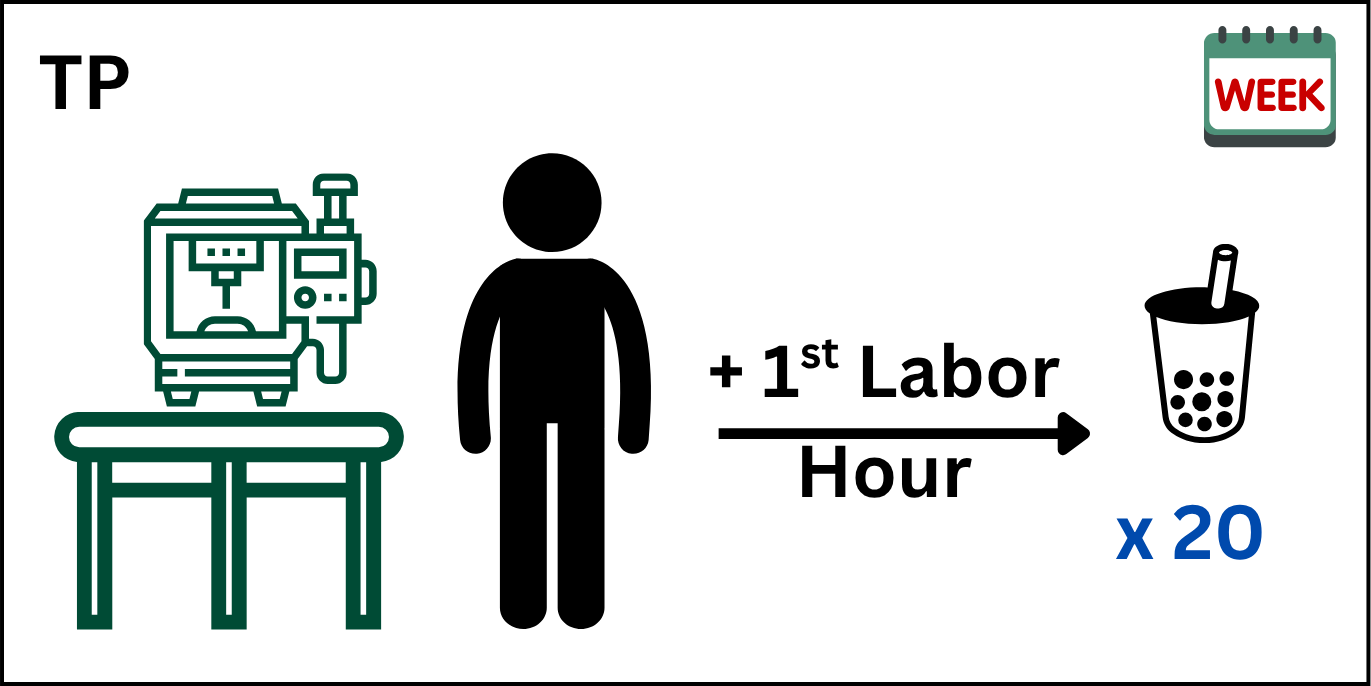
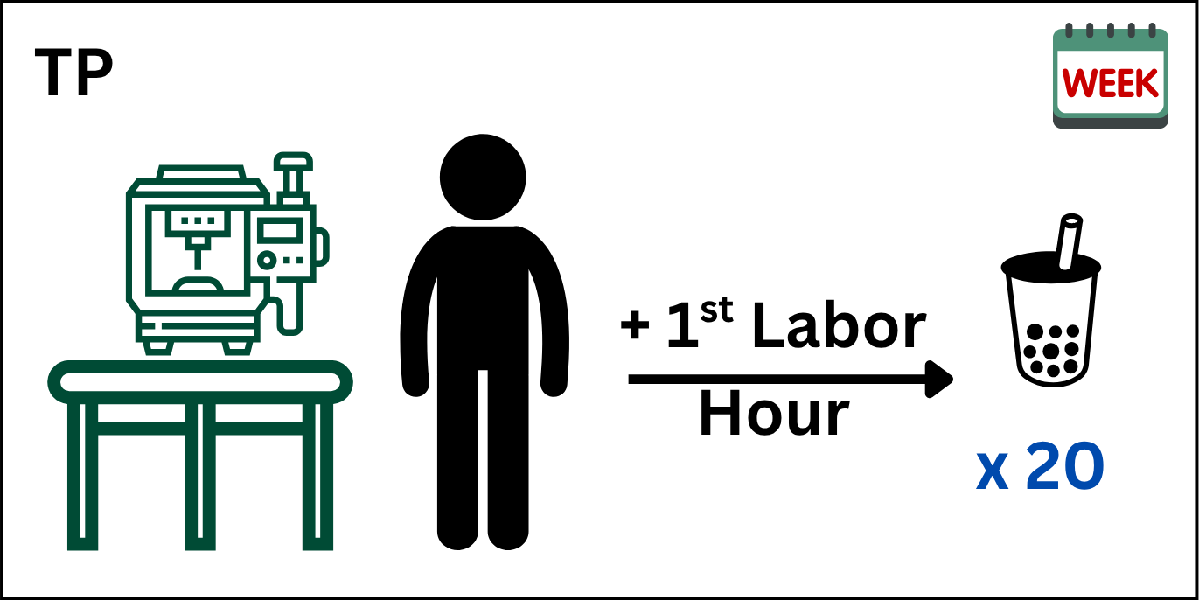
ch09: fix TP panel heights — direct height:150px now that source images are uniform 600px tall
User regenerated tp1/tp2/tp3 at uniform 600px height (different widths
1199/1414/1699 by aspect ratio). With a uniform source height, the
cleanest CSS is to set the img height DIRECTLY (height: 150px,
width: auto) rather than fitting inside a max-height container — that
way the height is forced equal across all three regardless of aspect.

Displayed dims (verified in browser):
  tp1: 300 × 150
  tp2: 354 × 150
  tp3: 380 × 150 (capped by ~415px column width; minor letterboxing)

All three line up at the same baseline, captions sit at identical Y.

diff --git a/econ1116/ch09-inside-the-firm/index.html b/econ1116/ch09-inside-the-firm/index.html
@@ -1385,25 +1385,21 @@
   </div>
  </div>
 
- <!-- 3-step TP reveal — each image in a fixed-height container so all 3 align -->
+ <!-- 3-step TP reveal — source images all 600px tall, so set img height (not container)
+      directly. Widths differ slightly by aspect ratio (~290/342/411 px), all fit
+      inside ~415px columns. Captions line up automatically. -->
  <div style="display: grid; grid-template-columns: 1fr 1fr 1fr; gap: 10px; margin-top: 12px;">
   <div class="fragment fade-up" data-fragment-index="1" style="text-align: center; min-width: 0;">
-   <div style="height: 180px; display: flex; align-items: center; justify-content: center; border-radius: 6px; box-shadow: 0 1px 4px rgba(0,0,0,0.08); overflow: hidden;">
-    <img alt="TP panel 1: boba machine + 1 worker + arrow + boba drink × 20. One labor hour produces 20 drinks." src="figures/tp1.png" style="max-width: 100%; max-height: 100%; object-fit: contain;">
-   </div>
-   <p style="font-size: 11pt; margin: 4px 0 0;"><strong>L = 1</strong> &rarr; 20 drinks/hr</p>
+   <img alt="TP panel 1: boba machine + 1 worker + arrow + boba drink × 20. One labor hour produces 20 drinks." src="figures/tp1.png" style="height: 150px; width: auto; max-width: 100%; display: block; margin: 0 auto; border-radius: 6px;">
+   <p style="font-size: 11pt; margin: 6px 0 0;"><strong>L = 1</strong> &rarr; 20 drinks/hr</p>
   </div>
   <div class="fragment fade-up" data-fragment-index="2" style="text-align: center; min-width: 0;">
-   <div style="height: 180px; display: flex; align-items: center; justify-content: center; border-radius: 6px; box-shadow: 0 1px 4px rgba(0,0,0,0.08); overflow: hidden;">
-    <img alt="TP panel 2: boba machine + 2 workers + arrow + boba drink × 50. Two workers produce 50 drinks (more than 2×20 because of specialization)." src="figures/tp2.png" style="max-width: 100%; max-height: 100%; object-fit: contain;">
-   </div>
-   <p style="font-size: 11pt; margin: 4px 0 0;"><strong>L = 2</strong> &rarr; <strong style="color: var(--success-color);">50 drinks/hr</strong> <span style="color: var(--muted-color); font-style: italic;">(2&times;20 = 40)</span></p>
+   <img alt="TP panel 2: boba machine + 2 workers + arrow + boba drink × 50. Two workers produce 50 drinks (more than 2×20 because of specialization)." src="figures/tp2.png" style="height: 150px; width: auto; max-width: 100%; display: block; margin: 0 auto; border-radius: 6px;">
+   <p style="font-size: 11pt; margin: 6px 0 0;"><strong>L = 2</strong> &rarr; <strong style="color: var(--success-color);">50 drinks/hr</strong> <span style="color: var(--muted-color); font-style: italic;">(2&times;20 = 40)</span></p>
   </div>
   <div class="fragment fade-up" data-fragment-index="3" style="text-align: center; min-width: 0;">
-   <div style="height: 180px; display: flex; align-items: center; justify-content: center; border-radius: 6px; box-shadow: 0 1px 4px rgba(0,0,0,0.08); overflow: hidden;">
-    <img alt="TP panel 3: boba machine + 3 workers + arrow + boba drink × 90. Three workers produce 90 drinks (way more than 3×20 because of further specialization)." src="figures/tp3.png" style="max-width: 100%; max-height: 100%; object-fit: contain;">
-   </div>
-   <p style="font-size: 11pt; margin: 4px 0 0;"><strong>L = 3</strong> &rarr; <strong style="color: var(--success-color);">90 drinks/hr</strong> <span style="color: var(--muted-color); font-style: italic;">(3&times;20 = 60)</span></p>
+   <img alt="TP panel 3: boba machine + 3 workers + arrow + boba drink × 90. Three workers produce 90 drinks (way more than 3×20 because of further specialization)." src="figures/tp3.png" style="height: 150px; width: auto; max-width: 100%; display: block; margin: 0 auto; border-radius: 6px;">
+   <p style="font-size: 11pt; margin: 6px 0 0;"><strong>L = 3</strong> &rarr; <strong style="color: var(--success-color);">90 drinks/hr</strong> <span style="color: var(--muted-color); font-style: italic;">(3&times;20 = 60)</span></p>
   </div>
  </div>
 

diff --git a/econ1116/ch09-inside-the-firm/presentation.html b/econ1116/ch09-inside-the-firm/presentation.html
@@ -1385,25 +1385,21 @@
   </div>
  </div>
 
- <!-- 3-step TP reveal — each image in a fixed-height container so all 3 align -->
+ <!-- 3-step TP reveal — source images all 600px tall, so set img height (not container)
+      directly. Widths differ slightly by aspect ratio (~290/342/411 px), all fit
+      inside ~415px columns. Captions line up automatically. -->
  <div style="display: grid; grid-template-columns: 1fr 1fr 1fr; gap: 10px; margin-top: 12px;">
   <div class="fragment fade-up" data-fragment-index="1" style="text-align: center; min-width: 0;">
-   <div style="height: 180px; display: flex; align-items: center; justify-content: center; border-radius: 6px; box-shadow: 0 1px 4px rgba(0,0,0,0.08); overflow: hidden;">
-    <img alt="TP panel 1: boba machine + 1 worker + arrow + boba drink × 20. One labor hour produces 20 drinks." src="figures/tp1.png" style="max-width: 100%; max-height: 100%; object-fit: contain;">
-   </div>
-   <p style="font-size: 11pt; margin: 4px 0 0;"><strong>L = 1</strong> &rarr; 20 drinks/hr</p>
+   <img alt="TP panel 1: boba machine + 1 worker + arrow + boba drink × 20. One labor hour produces 20 drinks." src="figures/tp1.png" style="height: 150px; width: auto; max-width: 100%; display: block; margin: 0 auto; border-radius: 6px;">
+   <p style="font-size: 11pt; margin: 6px 0 0;"><strong>L = 1</strong> &rarr; 20 drinks/hr</p>
   </div>
   <div class="fragment fade-up" data-fragment-index="2" style="text-align: center; min-width: 0;">
-   <div style="height: 180px; display: flex; align-items: center; justify-content: center; border-radius: 6px; box-shadow: 0 1px 4px rgba(0,0,0,0.08); overflow: hidden;">
-    <img alt="TP panel 2: boba machine + 2 workers + arrow + boba drink × 50. Two workers produce 50 drinks (more than 2×20 because of specialization)." src="figures/tp2.png" style="max-width: 100%; max-height: 100%; object-fit: contain;">
-   </div>
-   <p style="font-size: 11pt; margin: 4px 0 0;"><strong>L = 2</strong> &rarr; <strong style="color: var(--success-color);">50 drinks/hr</strong> <span style="color: var(--muted-color); font-style: italic;">(2&times;20 = 40)</span></p>
+   <img alt="TP panel 2: boba machine + 2 workers + arrow + boba drink × 50. Two workers produce 50 drinks (more than 2×20 because of specialization)." src="figures/tp2.png" style="height: 150px; width: auto; max-width: 100%; display: block; margin: 0 auto; border-radius: 6px;">
+   <p style="font-size: 11pt; margin: 6px 0 0;"><strong>L = 2</strong> &rarr; <strong style="color: var(--success-color);">50 drinks/hr</strong> <span style="color: var(--muted-color); font-style: italic;">(2&times;20 = 40)</span></p>
   </div>
   <div class="fragment fade-up" data-fragment-index="3" style="text-align: center; min-width: 0;">
-   <div style="height: 180px; display: flex; align-items: center; justify-content: center; border-radius: 6px; box-shadow: 0 1px 4px rgba(0,0,0,0.08); overflow: hidden;">
-    <img alt="TP panel 3: boba machine + 3 workers + arrow + boba drink × 90. Three workers produce 90 drinks (way more than 3×20 because of further specialization)." src="figures/tp3.png" style="max-width: 100%; max-height: 100%; object-fit: contain;">
-   </div>
-   <p style="font-size: 11pt; margin: 4px 0 0;"><strong>L = 3</strong> &rarr; <strong style="color: var(--success-color);">90 drinks/hr</strong> <span style="color: var(--muted-color); font-style: italic;">(3&times;20 = 60)</span></p>
+   <img alt="TP panel 3: boba machine + 3 workers + arrow + boba drink × 90. Three workers produce 90 drinks (way more than 3×20 because of further specialization)." src="figures/tp3.png" style="height: 150px; width: auto; max-width: 100%; display: block; margin: 0 auto; border-radius: 6px;">
+   <p style="font-size: 11pt; margin: 6px 0 0;"><strong>L = 3</strong> &rarr; <strong style="color: var(--success-color);">90 drinks/hr</strong> <span style="color: var(--muted-color); font-style: italic;">(3&times;20 = 60)</span></p>
   </div>
  </div>
 
